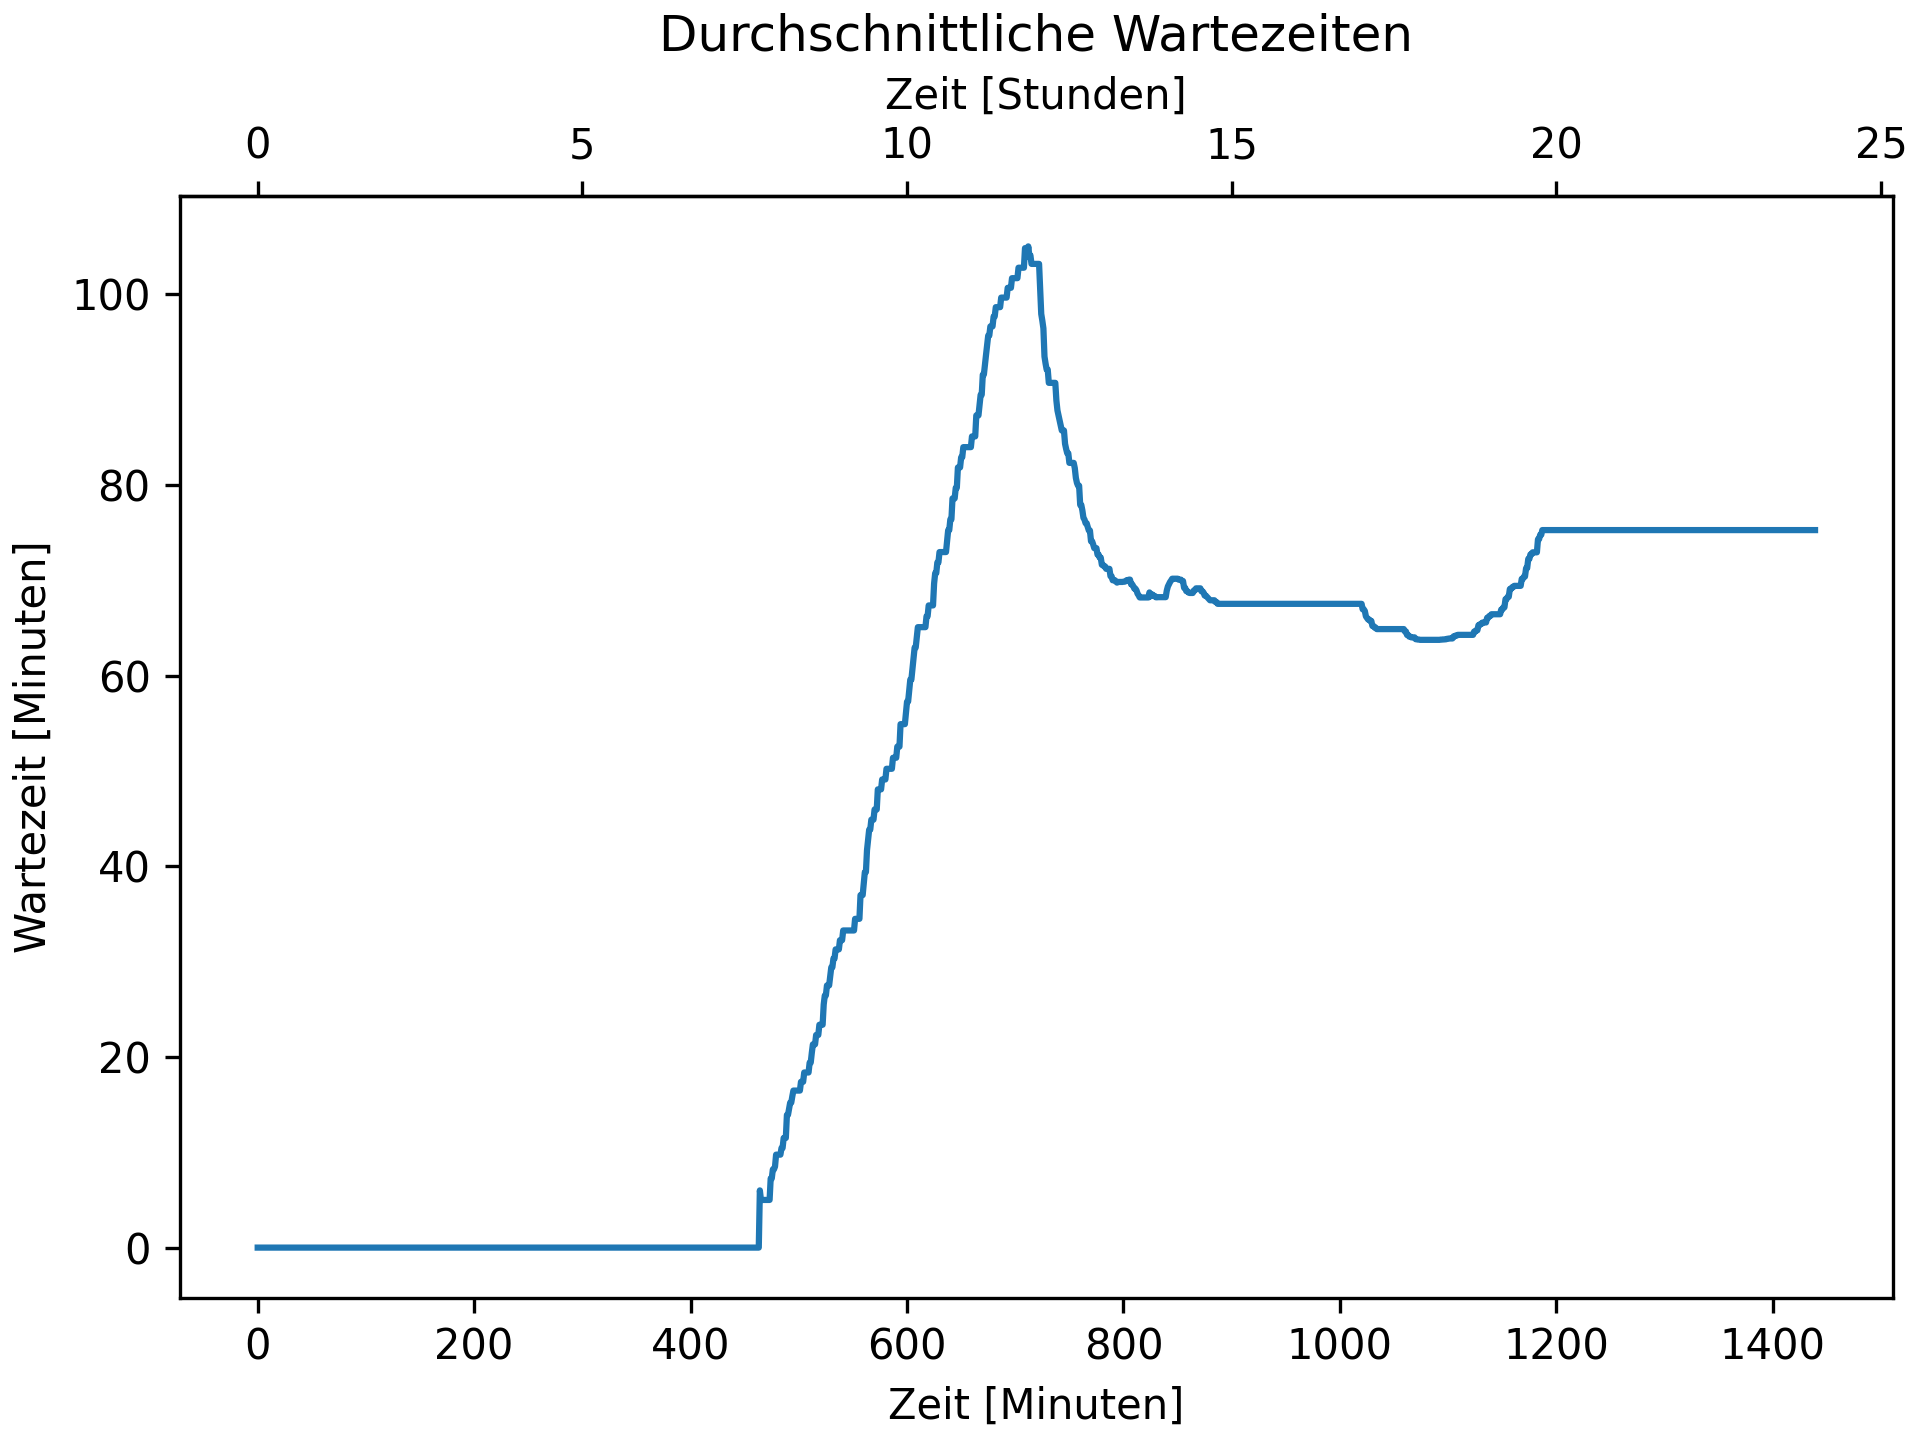
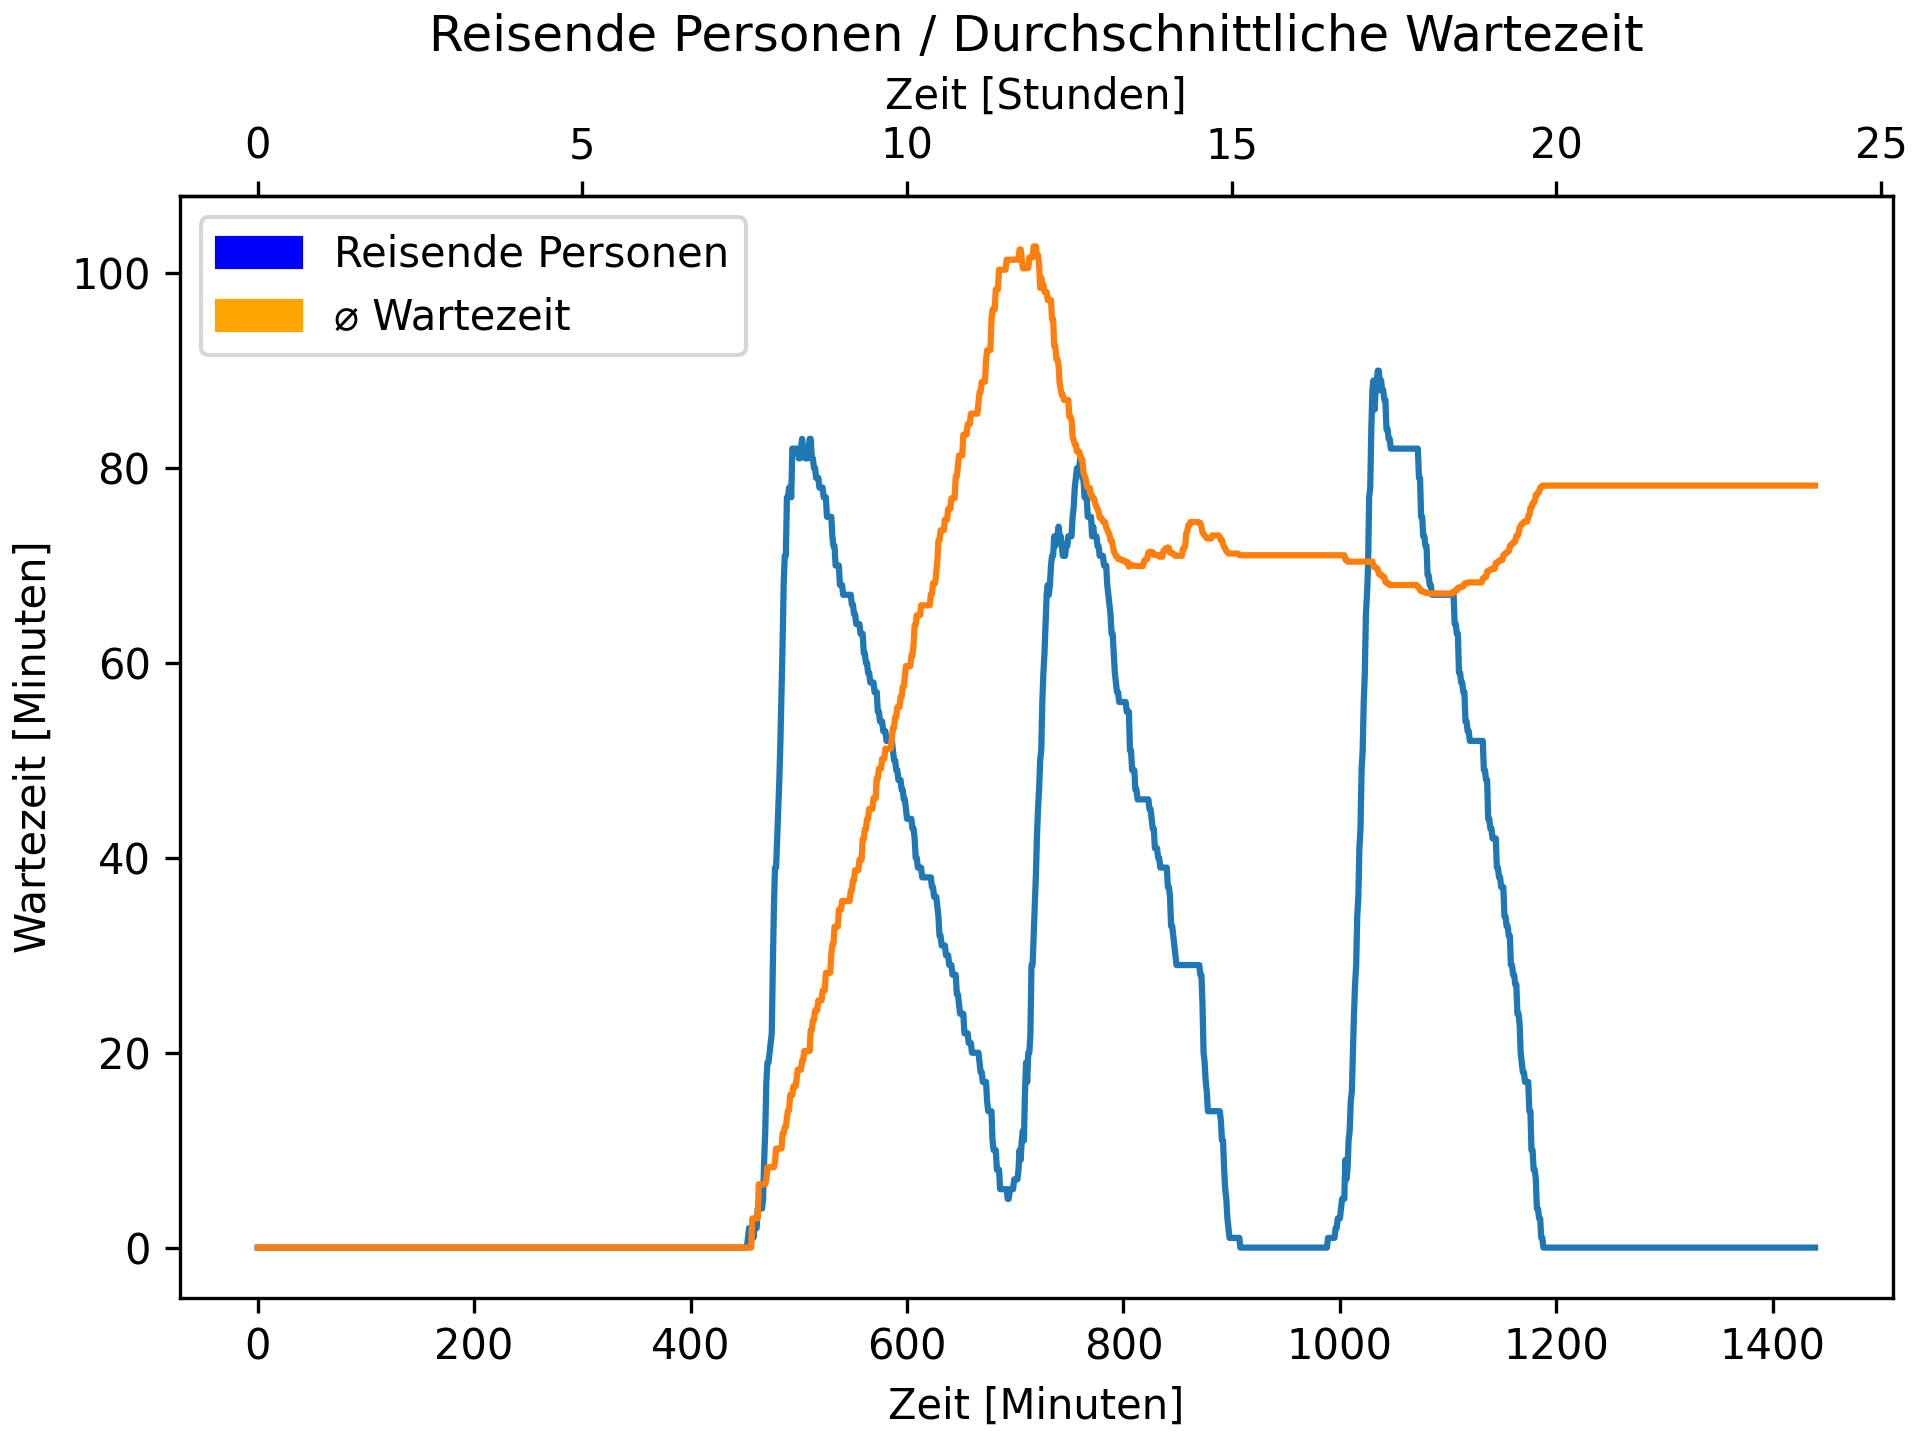
Reisende Personen Graph fertig

diff --git a/src/simulation.py b/src/simulation.py
@@ -88,14 +88,18 @@ class Simulation:
 
         self.shutdown()
 
-    def shutdown(self):
+    def shutdown(self) -> None:
+        """
+        Called after simulation finished
+        :return: None
+        """
         Clock.end_of_day = True
         data = self.end_of_day_log()
         print("Average Waiting Time:", f"{data['avgWaitingTime']:.2f}", " | Remaining Persons:", data["remaining"])
-        if Conf.showPlots:
+        if Conf.generatesPlots:
             self.draw_data(data)
 
-    def end_of_day_log(self):
+    def end_of_day_log(self) -> dict:
         # TODO: End of day
         Logger.new_tact()
         log = self.personManager.end_of_day()
@@ -123,62 +127,59 @@ class Simulation:
         """
         # gamma
         #
-        fig, axs = plt.subplots(layout='constrained')
+        fig, ax = plt.subplots(layout='constrained')
         plt.hist(self.personManager.scheduleTimes, bins=24 * 60, density=True)
 
         plt.xlabel('Zeit [Minuten]')
         plt.ylabel('Dichte')
         min_to_hour = lambda x: np.divide(x, 60)
-        secax1 = axs.secondary_xaxis('top', functions=(min_to_hour, min_to_hour))
+        secax1 = ax.secondary_xaxis('top', functions=(min_to_hour, min_to_hour))
         secax1.set_xlabel('Zeit [Stunden]')
 
         plt.title('Gamma-Verteilung')
 
         Logger.log('Gamma-Verteilung')
-        plt.show()
+        if Conf.showPlots:
+            plt.show()
 
         # floors
         #
         floors = list()
         for f in self.personManager.homeFloors:
             floors.append(int(f) + 1)
-        # Histogramm erstellen
+
         plt.hist(floors, bins=[i for i in range(1, Conf.maxFloor + 1)], density=True, alpha=0.8)
-        # Achsenbeschriftungen
+
         plt.xlabel('Etagen')
         plt.ylabel('Dichte')
-        # Titel des Plots
+
         plt.title('Stockwerk-Verteilung')
-        # Diagramm anzeigen
+
         Logger.log(plot_name='Etagen-Verteilung')
-        plt.show()
+        if Conf.showPlots:
+            plt.show()
 
         # average waiting time
         #
         waiting_motion = list()
         for i in range(24 * 60):
             waiting_motion.append((self.personManager.numberInMotion[i], self.avgWaitingTime[i]))
-        fig, axs = plt.subplots(2, layout='constrained')
-        axs[1].plot([i for i in range(24 * 60)], waiting_motion)
+        fig, ax = plt.subplots(layout='constrained')
+        ax.plot([i for i in range(24 * 60)], waiting_motion)
         plt.xlabel('Zeit [Minuten]')
-        secax1 = axs[1].secondary_xaxis('top', functions=(min_to_hour, min_to_hour))
+        secax1 = ax.secondary_xaxis('top', functions=(min_to_hour, min_to_hour))
         secax1.set_xlabel('Zeit [Stunden]')
         plt.ylabel('Wartezeit [Minuten]')
 
-        axs[0].plot([i for i in range(24 * 60)], self.personManager.numberInMotion)
-        plt.xlabel('Zeit [Minuten]')
-        secax2 = axs[0].secondary_xaxis('top', functions=(min_to_hour, min_to_hour))
-        secax2.set_xlabel('Zeit [Stunden]')
-        plt.ylabel('Wartezeit [Minuten]')
+        plt.title('Reisende Personen / Durchschnittliche Wartezeit')
 
-        fig.suptitle('Durchschnittliche Wartezeiten')
-        plt.title('Reisende Personen')
-
-        red_patch = pat.Patch(color='orange', label='Durchschnittliche Wartezeit')
-        axs[1].legend(handles=[red_patch])
+        avg_waiting_patch = pat.Patch(color='orange', label='\u2300 Wartezeit')
+        moving_patch = pat.Patch(color='blue', label='Reisende Personen')
+        ax.legend(handles=[moving_patch, avg_waiting_patch], loc="upper left")
 
         Logger.log(plot_name='Durchschnittliche-Wartezeit')
-        plt.show()
+        if Conf.showPlots:
+            plt.show()
 
 
 if __name__ == "__main__":
@@ -190,7 +191,10 @@ if __name__ == "__main__":
             showGui = value != "false" and value != "False"
         elif param.__contains__("plots="):
             value = param[6:]
-            Conf.showPlots = value == "true" or value == "True"
+            Conf.generatesPlots = value == "true" or value == "True"
+        elif param.__contains__("showPlots="):
+            value = param[10:]
+            Conf.showPlots = (value == "true" or value == "True") and Conf.generatesPlots
         elif param.__contains__("skip="):
             value = param[5:]
             Clock.skip = int(value)

diff --git a/src/utils.py b/src/utils.py
@@ -24,6 +24,7 @@ class Conf:
     maxFloor: int = 15
     #
     # Logs
+    generatesPlots: bool = False
     showPlots: bool = False
     plotPath: str = "../paper/simulation/images"
     logPath: str = "logs"
